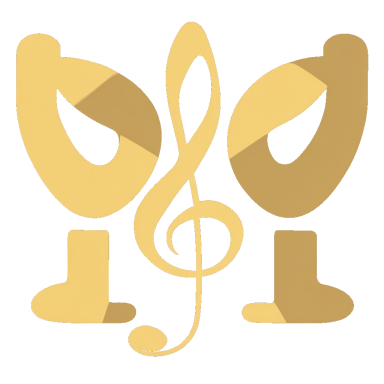
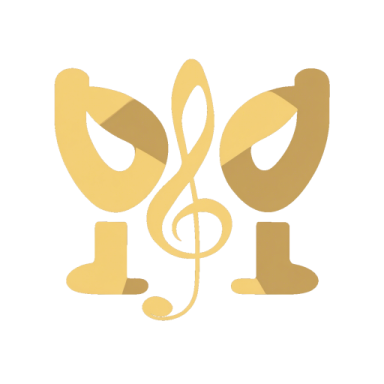
・ogpの画像が表示されなかったため置き場所を移動 ・cronのエラー修正 ・pwaのアイコンを変更 ・track詳細ページからalbum詳細に移動できるようにリンクを追加

diff --git a/web/app/api/cron/route.ts b/web/app/api/cron/route.ts
@@ -1,5 +1,4 @@
-import { NextResponse } from 'next/server';
-import type { NextRequest } from 'next/server';
+import { NextResponse } from "next/server";
 import {
   fetchAllMillionArtists,
   fetchAllMillionTracksFromPlaylist,
@@ -17,50 +16,41 @@ import {
 } from "@/utils/spotify-response.type";
 import { upsertSupabaseTables } from "@/utils/supabase";
 
-export async function POST(request: NextRequest) {
-    const accessToken: SpotifyAccessTokenResponse =
-      await getSpotifyAccessToken();
-    // 全曲プレイリストから全楽曲情報を取得
-    const playlistId = process.env.SPOTIFY_PLAYLIST_ID;
-    const allTracks: Track[] =
-      (await fetchAllMillionTracksFromPlaylist(accessToken, playlistId)) ?? [];
+export async function GET() {
+  const accessToken: SpotifyAccessTokenResponse = await getSpotifyAccessToken();
+  // 全曲プレイリストから全楽曲情報を取得
+  const playlistId = process.env.SPOTIFY_PLAYLIST_ID;
+  const allTracks: Track[] =
+    (await fetchAllMillionTracksFromPlaylist(accessToken, playlistId)) ?? [];
 
-    // 各楽曲の分析情報を取得
-    const trackIds = Array.from(allTracks, (track: Track) => track.id);
-    const allAudioFeatures: AudioFeatures[] =
-      (await fetchAudioFeaturesByTrackIds(accessToken, trackIds, 100)) ?? [];
+  // 各楽曲の分析情報を取得
+  const trackIds = Array.from(allTracks, (track: Track) => track.id);
+  const allAudioFeatures: AudioFeatures[] =
+    (await fetchAudioFeaturesByTrackIds(accessToken, trackIds, 100)) ?? [];
 
-    // Artist情報を取得
-    const artistIds: string[] = Array.from(
-      new Set(
-        allTracks.flatMap((data) => data.artists.map((artist) => artist.id))
-      )
-    );
-    const allArtists: Artist[] =
-      (await fetchAllMillionArtists(accessToken, artistIds, 50)) ?? [];
-
-    // Album情報を取得
-    const albumIds: string[] = Array.from(
-      new Set(allTracks.flatMap((data) => data.album.id))
-    );
-    const allAlbums: Album[] =
-      (await fetchAllMillionAlbums(accessToken, albumIds, 20)) ?? [];
-
-    const result = await upsertSupabaseTables(
-      allTracks,
-      allArtists,
-      allAlbums,
-      allAudioFeatures
-    );
-  return NextResponse.json(
-    {
-      body: request.body,
-      path: request.nextUrl.pathname,
-      query: request.nextUrl.search,
-      cookies: request.cookies.getAll(),
-    },
-    {
-      status: 200,
-    },
+  // Artist情報を取得
+  const artistIds: string[] = Array.from(
+    new Set(
+      allTracks.flatMap((data) => data.artists.map((artist) => artist.id))
+    )
   );
+  const allArtists: Artist[] =
+    (await fetchAllMillionArtists(accessToken, artistIds, 50)) ?? [];
+
+  // Album情報を取得
+  const albumIds: string[] = Array.from(
+    new Set(allTracks.flatMap((data) => data.album.id))
+  );
+  const allAlbums: Album[] =
+    (await fetchAllMillionAlbums(accessToken, albumIds, 20)) ?? [];
+
+  const result = await upsertSupabaseTables(
+    allTracks,
+    allArtists,
+    allAlbums,
+    allAudioFeatures
+  );
+  return NextResponse.json({
+    status: 200,
+  });
 }

diff --git a/web/app/tracks/[track_id]/_components/TrackCard.tsx b/web/app/tracks/[track_id]/_components/TrackCard.tsx
@@ -5,10 +5,12 @@ import TrackArtists from "./TrackArtists";
 import PlayTrackButton from "@/app/components/UI/icon-button/PlayTrackButton";
 import type { CharacterType } from "@/utils/supabase";
 import SubscribeSpeedDial from "@/app/components/UI/track/SubscribeSpeedDial";
+import Link from "next/link";
 
 type Props = {
   name: string;
   imageUrl: string;
+  albumId: string;
   albumName: string;
   characters: CharacterType[];
   artistNameArray: string[];
@@ -18,6 +20,7 @@ type Props = {
 const TrackCard: FC<Props> = ({
   name,
   imageUrl,
+  albumId,
   albumName,
   characters,
   artistNameArray,
@@ -34,21 +37,28 @@ const TrackCard: FC<Props> = ({
     <div className={styles["track-card-relative"]}>
       <div className={styles["track-card"]}>
         <div className={styles["track-card-header"]}>
-          <Image
-            width={160}
-            height={160}
-            alt={name}
-            src={imageUrl}
-            className={styles["track-album-img"]}
-            priority={true}
-          />
+          <Link
+            href={`/albums/${albumId}`}
+            className={styles["track-album-img-link"]}
+          >
+            <Image
+              width={160}
+              height={160}
+              alt={name}
+              src={imageUrl}
+              className={styles["track-album-img"]}
+              priority={true}
+            />
+          </Link>
           <TrackArtists characters={characters} />
         </div>
         <div className={styles["track-card-right-content"]}>
           <div className={styles["track-names-container"]}>
             <p className={styles["track-title"]}>{name}</p>
             <p className={styles["track-sub-title"]}>{artistName}</p>
-            <p className={styles["track-sub-title"]}>{albumName}</p>
+            <Link href={`/albums/${albumId}`}>
+              <p className={styles["track-sub-title"]}>{albumName}</p>
+            </Link>
           </div>
           <div className={styles["function-icon-list"]}>
             <PlayTrackButton

diff --git a/web/app/tracks/[track_id]/page.tsx b/web/app/tracks/[track_id]/page.tsx
@@ -17,6 +17,7 @@ type Props = {
 };
 
 type AlbumType = {
+  album_id: string;
   name: string;
   album_image_url: string;
 };
@@ -56,7 +57,7 @@ async function fetchTrack(track_id: string) {
         speechiness,
         valence,
         tempo,
-        mst_albums (name, album_image_url)`
+        mst_albums (album_id, name, album_image_url)`
     )
     .eq("track_id", track_id)
     .returns<TrackType[]>()
@@ -107,6 +108,7 @@ export default async function TrackDetailPage({ params }: Props) {
         <TrackCard
           name={track.track_name}
           imageUrl={track.mst_albums.album_image_url}
+          albumId={track.mst_albums.album_id}
           albumName={track.mst_albums.name}
           characters={uniqueCharacters}
           artistNameArray={track.artist_names}
@@ -162,7 +164,7 @@ export async function generateMetadata({ params }: Props): Promise<Metadata> {
       images: track
         ? [track.mst_albums.album_image_url]
         : [
-            "https://aupeferaibudquqmgdne.supabase.co/storage/v1/object/public/MillionLiveImageBucket/logo_large.webp",
+            "https://aupeferaibudquqmgdne.supabase.co/storage/v1/object/public/MillionLiveImageBucket/opengraph-image.png",
           ],
     },
     twitter: {

diff --git a/web/utils/shared-metadata.ts b/web/utils/shared-metadata.ts
@@ -1,12 +1,15 @@
 export const siteName = "MILLIONLIVE MUSIC DB";
 export const description =
   "THE IDOLM@STER MILLIONLIVE!の楽曲とキャラクターの魅力を知るための非公式ファンサイトです。バラエティ豊かな楽曲を試聴したりキャラクターのプロフィールやイラストを閲覧したりすることができます。";
-export const url = "https://www.millionlive-music-db.com/";
+export const url = "https://www.millionlive-music-db.com";
 
 export const openGraphMeta = {
   title: siteName,
   description: description,
   siteName: siteName,
+  images: [
+    "https://aupeferaibudquqmgdne.supabase.co/storage/v1/object/public/MillionLiveImageBucket/opengraph-image.png",
+  ],
   url: url,
   locale: "ja_JP",
   type: "website",

diff --git a/web/app/characters/[artist_id]/page.tsx b/web/app/characters/[artist_id]/page.tsx
@@ -92,7 +92,7 @@ export async function generateMetadata({ params }: Props): Promise<Metadata> {
       images: character
         ? [...character.hero_images]
         : [
-            "https://aupeferaibudquqmgdne.supabase.co/storage/v1/object/public/MillionLiveImageBucket/logo_large.webp",
+            "https://aupeferaibudquqmgdne.supabase.co/storage/v1/object/public/MillionLiveImageBucket/opengraph-image.png",
           ],
     },
     twitter: {

diff --git a/web/app/albums/[album_id]/page.tsx b/web/app/albums/[album_id]/page.tsx
@@ -116,7 +116,7 @@ export async function generateMetadata({ params }: Props): Promise<Metadata> {
       images: album
         ? [album.album_image_url]
         : [
-            "https://aupeferaibudquqmgdne.supabase.co/storage/v1/object/public/MillionLiveImageBucket/logo_large.webp",
+            "https://aupeferaibudquqmgdne.supabase.co/storage/v1/object/public/MillionLiveImageBucket/opengraph-image.png",
           ],
     },
     twitter: {

diff --git a/web/app/characters/[artist_id]/CharacterDetailPage.module.css b/web/app/characters/[artist_id]/CharacterDetailPage.module.css
@@ -43,6 +43,7 @@
 }
 
 .profile-description-decoration {
+  min-width: 1.5rem;
   width: 1.5rem;
   height: 1.5rem;
   display: inline-block;

diff --git a/web/app/tracks/[track_id]/_components/TrackCard.module.css b/web/app/tracks/[track_id]/_components/TrackCard.module.css
@@ -80,7 +80,7 @@
 }
 
 @media screen and (max-width: 834px) {
-  .track-album-img {
+  .track-album-img-link {
     display: none;
   }
 }
